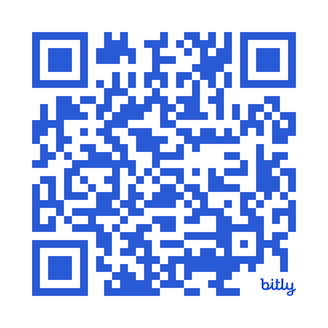
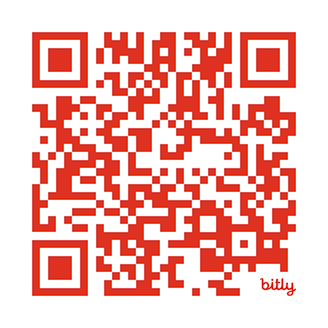
Sean Sullivan - Netty - April 2024

diff --git a/sections/cjug.md b/sections/cjug.md
@@ -1,13 +1,11 @@
 ## Chicago Java Users Group
 ---
 
-### March 27, 2024
+### April 17, 2024
 <br/>
-## Retrieval-Augmented Generation (RAG) 
-###with 
-## Spring Boot, React, and LangChain4J
-<br/>
-### by Marcus Hellberg
+## Netty in the Real World
+###by
+## Sean Sullivan
 <div style="background-color: white; margin-top: 30px;">
 	<img src="images/cjug.gif" style="border: none; box-shadow: none;"/>
 </div>
@@ -18,7 +16,7 @@
 <img src="images/JetBrains-2022-twitter.jpg" style="border:none; box-shadow:none; margin: 14px; background:white;"/>
 <img src="images/CJUG-JB-raffle-QR.png" style="border:none; box-shadow:none; margin: 14px; background:white;"/>
 <br/>
-##### Submit your info here to enter into the drawings: [https://bit.ly/3VBQ970](https://bit.ly/3VBQ970)
+##### Submit your info here to enter into the drawings: [https://bit.ly/4aDdJ86](https://bit.ly/4aDdJ86)
 ####NOTE: You are ineligible to participate
 ####if you won a license within the last 9 months!
 
@@ -45,7 +43,7 @@
 
 <img src="images/cjug-discord-qrcode.png" style="border:none; box-shadow:none; margin: 30px; background:white;"/>
 
-Join this room: [#2024-03-27-genai-rag-springboot-react-langchain4j](https://discord.gg/6fBTBnVZz7)
+Join this room: [#2024-04-17-netty](https://discord.gg/mc4Dp37x)
 
 --section--
 ##Community Info
@@ -53,15 +51,27 @@ Join this room: [#2024-03-27-genai-rag-springboot-react-langchain4j](https://dis
 #### CJUG is a Community Partner of the following groups/conference organizations:
 
 * JetBrains (https://jetbrains.com/community)
+* Chicago PgDay (https://2024.pgdaychicago.org/)
+* JCON (https://jcon.one)
 * DevITJobs.us (http://devitjobs.us/community)
 * WeAreDevelopers (https://www.wearedevelopers.com/world-congress)
-* JCON (https://jcon.one)
 * CodeMotion (https://www.codemotion.com/)
+
+--section--
+## Chicago PgDay 2024 - April 26
+####(Postgres Community Conference)
+<br/>
+https://2024.pgdaychicago.org/
+<br/><br/>
+Tickets price (regular):  $150
+<br/><br/>
+####CJUG as a community partner will be given 2 free admission tickets!!
+####[Please indicate IF you are planning to attend the conference on the Raffle form]
 
 --section--
 ## JCON Europe 2024 - May 13 through 16
 <br/>
-(https://2024.europe.jcon.one/)
+https://2024.europe.jcon.one/
 <br/><br/>
 FREE ADMISSIONS for JUG MEMBERS 
 <br/>
@@ -79,8 +89,9 @@ FREE ADMISSIONS for JUG MEMBERS
 
 --section--
 ## Upcoming Event(s)
-* April 17 - TBD 
-* May (3rd or 4th week) - TBD
+* May meetup - TBD
+* June 20 - Java 22 by Billy Korando (Oracle Java Advocate)
+* July - James Carman (CTO from Callibrity, Apache PMC for multiple projects - Camel, Commons)
 <br/><br/>
 * Other confirmed speakers include: <br/>Venkat Subramaniam (Agile Developer), Alina Yurenko (Oracle/GraalVM), Jose Paumard (Oracle)
 <br/><br/>
@@ -99,7 +110,7 @@ FREE ADMISSIONS for JUG MEMBERS
 
 <img src="images/cjug-linkedinGroup-qrcode.png" style="border:none; box-shadow:none; margin: 30px; background:white;"/>
 
-### Feel free to share your story with the community today!
+#### Feel free to share your story with the community today!
 ####Job seekers? Recruiters? Seeking for project collaborators? 
 
 

diff --git a/sections/speaker.md b/sections/speaker.md
@@ -1,10 +1,9 @@
-## Our Speaker for today
+## Our Speaker today - from Oregon!
 
-### Marcus Hellberg [@marcushellberg](https://twitter.com/marcushellberg)
-- VP of Developer Relations at [@vaadin](https://vaadin.com)
-- Personal website at [https://marcushellberg.dev/](https://marcushellberg.dev/)
-- Specializing in modern web technologies, Java, developer relations
-- Originally from Finland. Now residing in the SF Bay Area.
+### Sean Sullivan [@tinyrobots](https://twitter.com/tinyrobots)
+- Software Engineer with very deep experience in building Java applications - over 20 years!
+- Previously leading platform teams at different major companies, including Twilio, Netflix
+- JUG Leader, co-organizer of the Portland Java Users Group
 
 
 

diff --git a/sections/sponsors.md b/sections/sponsors.md
@@ -10,6 +10,10 @@
 <img src="images/FusionAuth.png" style="border:none; box-shadow:none; margin: 30px; background:white;"/>
 
 --section--
+## Soon-to-be-NEW GOLD Sponsor !!!
+<img src="images/adyen.png" style="border:none; box-shadow:none; margin: 30px; background:white;"/>
+
+--section--
 # Friends of CJUG
 #### The Worldwide Java Community, and in particular:
 ####  [Atlanta JUG (Georgia)](https://ajug.org)
